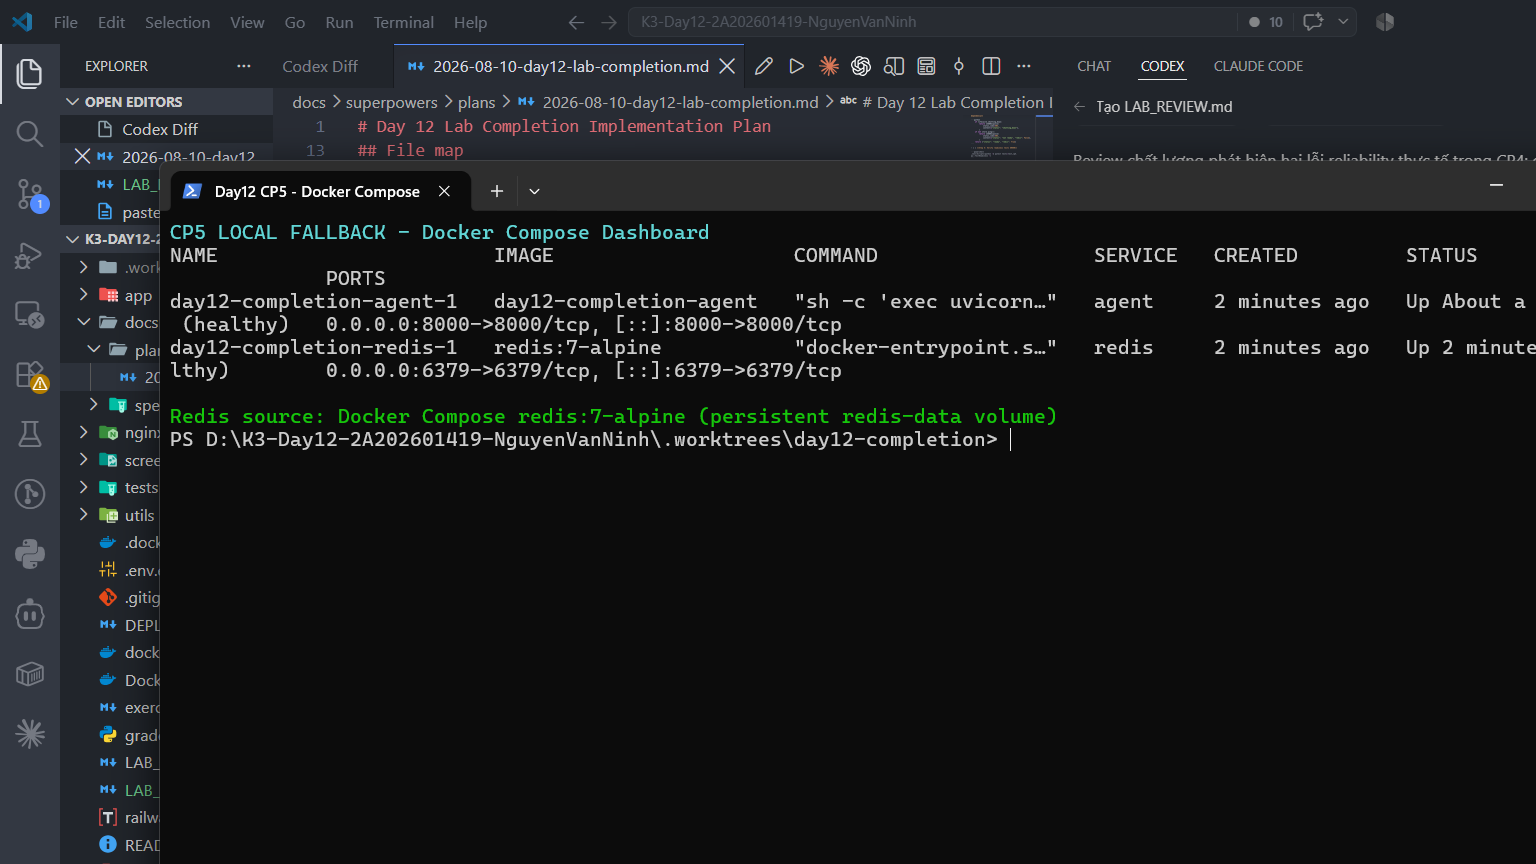
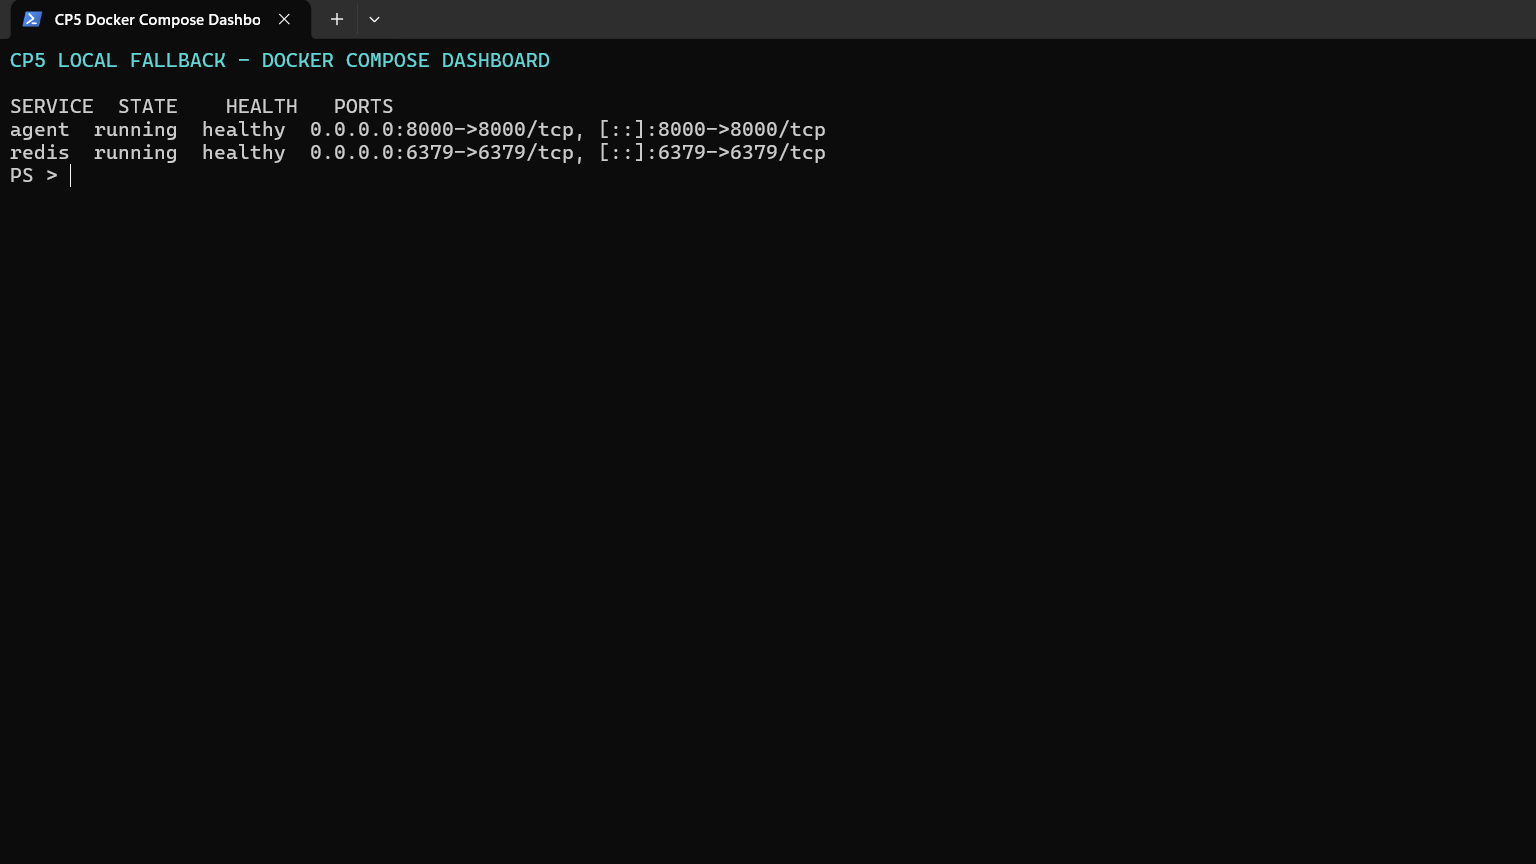
docs: refine CP5 fallback evidence

diff --git a/DEPLOYMENT.md b/DEPLOYMENT.md
@@ -24,7 +24,7 @@ Railway CLI 5.35.0 was installed. `railway whoami` returned exactly: `Unauthoriz
 | Variable | Source |
 | --- | --- |
 | `PORT` | Docker container command / local port mapping |
-| `AGENT_API_KEY` | ignored local `.env`; never committed or printed |
+| `AGENT_API_KEY` | ignored local `.env`; local value verified absent from tracked HEAD/history on 2026-08-10 |
 | `REDIS_URL` | Compose service URL `redis://redis:6379/0` |
 | `RATE_LIMIT_PER_MINUTE` | Compose value `10` |
 | `MONTHLY_BUDGET_USD` | Compose value `10.0` |
@@ -53,6 +53,10 @@ GET http://127.0.0.1:8000/ready -> 200
 {"status":"ready","redis":true}
 POST http://127.0.0.1:8000/ask without X-API-Key -> 401
 ```
+
+## CP5 test result
+
+`pytest tests/test_cp5.py -v` completed with **8 passed, 5 skipped**. The four public HTTPS-path checks are expected skips in `LOCAL_FALLBACK=true` mode, and the real-key public `/ask` check is skipped because no `DEPLOY_API_KEY` is set. The local Docker fallback is therefore capped at **9/15** for CP5.
 
 ## Screenshots
 
